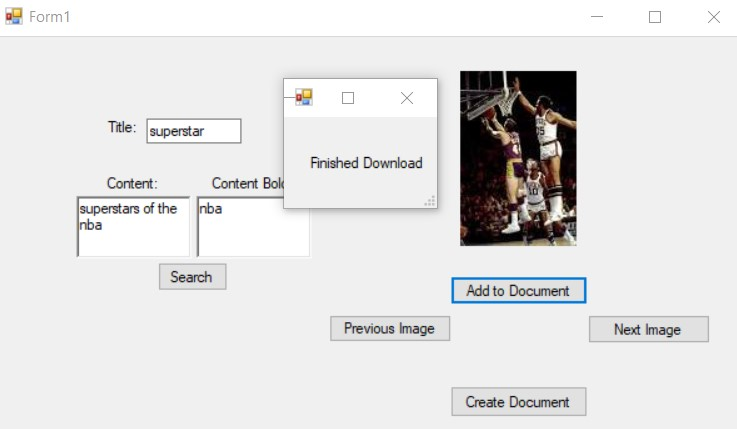
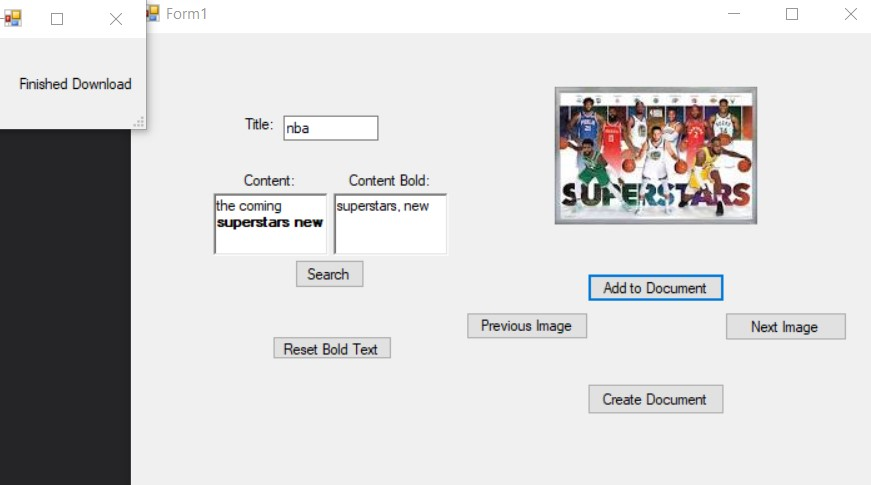
added bold feature

diff --git a/WindowsFormsApp2/Form1.Designer.cs b/WindowsFormsApp2/Form1.Designer.cs
@@ -41,6 +41,7 @@ namespace WindowsFormsApp2
             this.button4 = new System.Windows.Forms.Button();
             this.button5 = new System.Windows.Forms.Button();
             this.richTextBox2 = new System.Windows.Forms.RichTextBox();
+            this.button6 = new System.Windows.Forms.Button();
             ((System.ComponentModel.ISupportInitialize)(this.pictureBox1)).BeginInit();
             this.SuspendLayout();
             // 
@@ -161,11 +162,22 @@ namespace WindowsFormsApp2
             this.richTextBox2.TabIndex = 12;
             this.richTextBox2.Text = "";
             // 
+            // button6
+            // 
+            this.button6.Location = new System.Drawing.Point(151, 298);
+            this.button6.Name = "button6";
+            this.button6.Size = new System.Drawing.Size(128, 23);
+            this.button6.TabIndex = 13;
+            this.button6.Text = "Reset Bold Text";
+            this.button6.UseVisualStyleBackColor = true;
+            this.button6.Click += new System.EventHandler(this.resetbutton_click);
+            // 
             // Form1
             // 
             this.AutoScaleDimensions = new System.Drawing.SizeF(8F, 16F);
             this.AutoScaleMode = System.Windows.Forms.AutoScaleMode.Font;
             this.ClientSize = new System.Drawing.Size(800, 450);
+            this.Controls.Add(this.button6);
             this.Controls.Add(this.richTextBox2);
             this.Controls.Add(this.button5);
             this.Controls.Add(this.button4);
@@ -200,6 +212,7 @@ namespace WindowsFormsApp2
         private System.Windows.Forms.Button button4;
         private System.Windows.Forms.Button button5;
         private System.Windows.Forms.RichTextBox richTextBox2;
+        private System.Windows.Forms.Button button6;
     }
 }
 

diff --git a/WindowsFormsApp2/Form1.cs b/WindowsFormsApp2/Form1.cs
@@ -32,6 +32,26 @@ namespace WindowsFormsApp2
 
         private void Search_Button_Click(object sender, EventArgs e)
         {
+            string[] words = richTextBox2.Text.Split(',');
+            foreach (string word in words)
+            {
+                int startindex = 0;
+                while (startindex < richTextBox1.TextLength)
+                {
+                    int wordstartIndex = richTextBox1.Find(word, startindex, RichTextBoxFinds.None);
+                    if (wordstartIndex != -1)
+                    {
+                        richTextBox1.SelectionStart = wordstartIndex;
+                        richTextBox1.SelectionLength = word.Length;
+                        richTextBox1.SelectionFont = new Font(richTextBox1.Font, FontStyle.Bold);
+                    }
+                    else
+                        break;
+                    startindex += wordstartIndex + word.Length;
+                }
+            }
+
+
             urls.Clear();
             index = 1;
             count_search++;
@@ -231,6 +251,14 @@ namespace WindowsFormsApp2
                     pictureBox1.Image = Image.FromStream(ms);
                 }
             }
+        }
+
+        private void resetbutton_click(object sender, EventArgs e)
+        {
+            richTextBox1.SelectionStart = 0;
+            richTextBox1.SelectAll();
+            richTextBox1.SelectionFont = new Font(richTextBox1.Font, FontStyle.Regular);
+
         }
     }
 }
